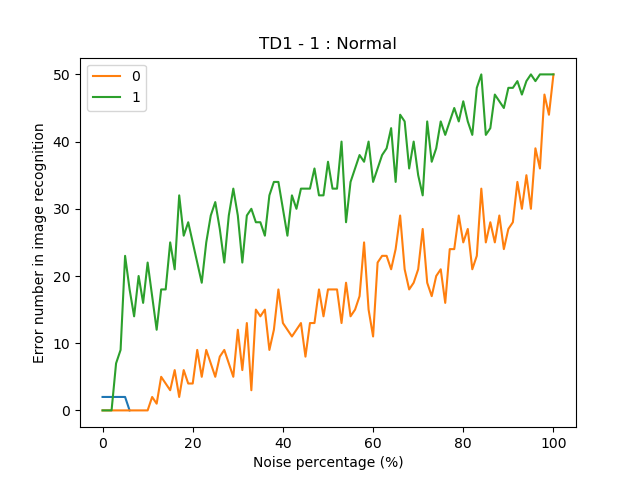
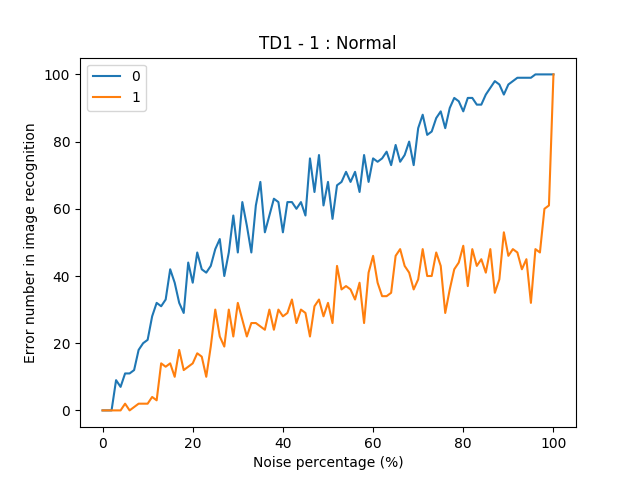
EVOL Validation first part - pb with cached image

diff --git a/IA_Active/part1.py b/IA_Active/part1.py
@@ -10,13 +10,15 @@ load_dotenv()
 LAYER_SIZES = [48, 1]
 EPSILON = 0.01
 THETA = 0.5
-# FILE_TRAIN_LIST = ['zero.txt', 'one.txt']
-# FILE_VERIF_LIST = ['zero.txt', 'one.txt']
-# FILE_TEST_LIST = ['one1.txt','zero2.txt']
-FILE_TRAIN_LIST = ['zero.txt', 'zero1.txt', 'one.txt', 'one1.txt']
-FILE_VERIF_LIST = ['zero.txt', 'zero1.txt', 'one.txt', 'one1.txt']
-FILE_TEST_LIST = ['zero.txt', 'one.txt']
+FILE_TRAIN_LIST = ['zero.txt', 'one.txt']
+FILE_VERIF_LIST = ['zero.txt', 'one.txt']
+FILE_TEST_LIST = ['one.txt','zero.txt']
+# FILE_TRAIN_LIST = ['zero.txt', 'zero1.txt', 'one.txt', 'one1.txt']
+# FILE_VERIF_LIST = ['zero.txt', 'zero1.txt', 'one.txt', 'one1.txt']
+# FILE_TEST_LIST = ['zero.txt', 'one.txt']
 PATH = os.getenv("PATH_TO_FILE")
+
+imageCached = {}
 
 def printImageTab(imageTab):
     for i in range(len(imageTab)):
@@ -42,11 +44,39 @@ def readFile(choice):
     dictionnary = dict()
     dictionnary['imageTab'] = imageTab
     dictionnary['value'] = value
+    imageCached[choice] = dictionnary
     return dictionnary
+
+    # Try to cache image - generate bug into returned errors
+    # if(imageCached.get(choice) == None):
+    #     print('called')
+    #     imageTab = []
+    #     value = -1
+    #     f= open(PATH+choice,"r")
+    #     # Read file char by char
+    #     while True:
+    #         char = f.read(1)
+    #         if not char:
+    #             # print "End of file"
+    #             break
+    #         if (char == '*'):
+    #             imageTab.append(1)
+    #         if (char == '.'):
+    #             imageTab.append(0)
+    #         if (char == '1' or char == '0'):
+    #             value = char
+
+    #     dictionnary = dict()
+    #     dictionnary['imageTab'] = imageTab
+    #     dictionnary['value'] = value
+    #     imageCached[choice] = dictionnary
+    #     return dictionnary
+    # else : 
+    #     print(imageCached)
+    #     return imageCached.get(choice)
 
 def sortingNoise (imageTab, percentage = 0) :
     reverseNumber = int(LAYER_SIZES[0] * percentage)
-    # print('nombre de case retournées : ', reverseNumber)
     if (reverseNumber <= LAYER_SIZES[0]):
         reverseIndexTab = random.sample(range(0, LAYER_SIZES[0]), reverseNumber)
     for item in reverseIndexTab:
@@ -157,8 +187,9 @@ def trainNeuronNetwork(weightTab, cpt, errorTab) :
     else :
         # print(cpt)
         # print(errorTab)
-        plt.plot(errorTab)
+        # plt.plot(errorTab)
         # plt.show()
+        pass
 
     return newWeight
 

diff --git a/IA_Active/main.py b/IA_Active/main.py
@@ -2,7 +2,7 @@ import sys
 import part1, part1_variante
 import matplotlib.pyplot as plt
 
-TRIALS_NUMBER = 50
+TRIALS_NUMBER = 100
 
 if __name__ == "__main__":
     # PART 1
